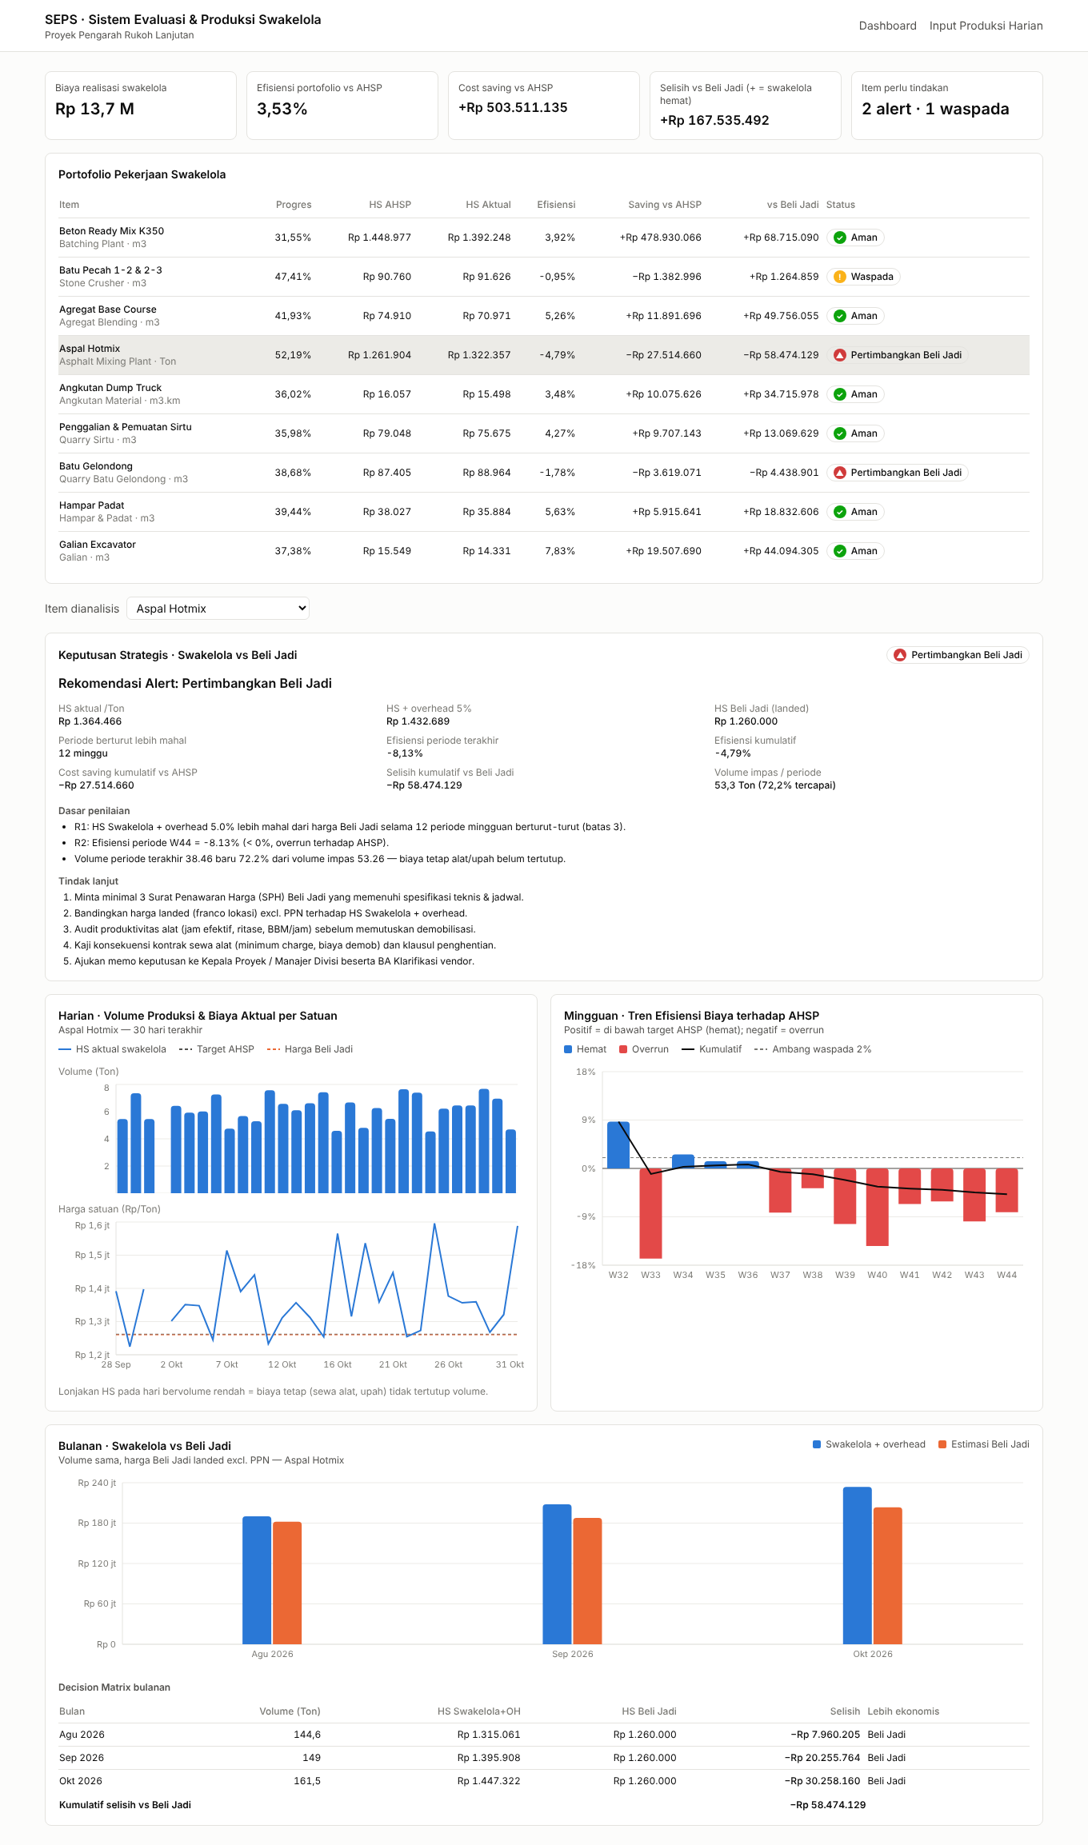
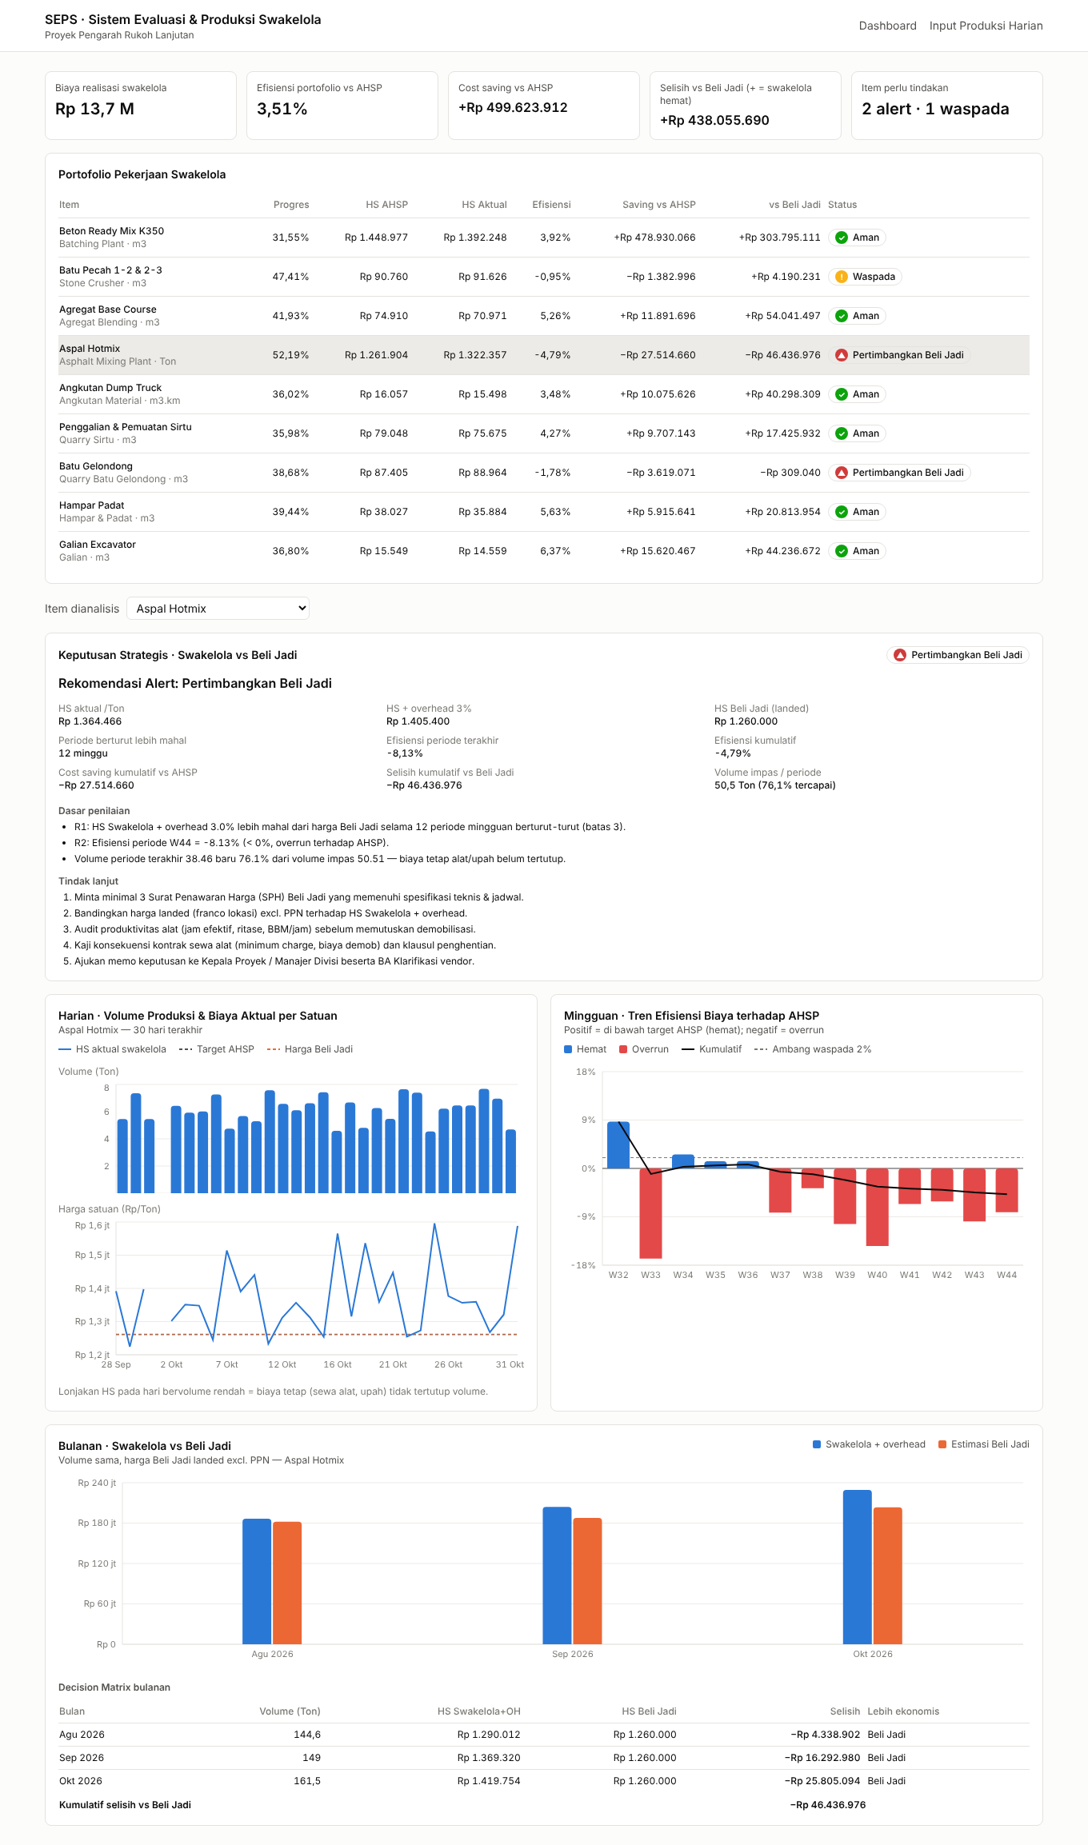
SEPS: overhead swakelola 3%, periode evaluasi mingguan Senin–Minggu
- m_item.overhead_pct 0,05 -> 0,03 (seed SQL, default kolom, master demo)
- Dokumentasikan parameter yang ditetapkan: overhead 3%, evaluasi
  mingguan Senin–Minggu, harga Beli Jadi contoh diperbarui manual nanti
- Perbarui contoh respons API & tangkapan layar dashboard

Claude-Session: https://claude.ai/code/session_0116Wk8PpniadwUNyTnyNxMi

diff --git a/seps/backend/src/data/master.js b/seps/backend/src/data/master.js
@@ -26,15 +26,15 @@ const UNIT_PRODUKSI = [
 ];
 
 const ITEMS = [
-  { id: 1, unit_id: 1, kode: 'BP-K350', nama: 'Beton Ready Mix K350', satuan: 'm3', volume_rencana: 26762, hs_ahsp: 1448977.09, overhead_pct: 0.05 },
-  { id: 2, unit_id: 2, kode: 'SC-SPLIT', nama: 'Batu Pecah 1-2 & 2-3', satuan: 'm3', volume_rencana: 3367, hs_ahsp: 90760, overhead_pct: 0.05 },
-  { id: 3, unit_id: 3, kode: 'AGR-BC', nama: 'Agregat Base Course', satuan: 'm3', volume_rencana: 7200, hs_ahsp: 74910, overhead_pct: 0.05 },
-  { id: 4, unit_id: 4, kode: 'AMP-HM', nama: 'Aspal Hotmix', satuan: 'Ton', volume_rencana: 872, hs_ahsp: 1261904, overhead_pct: 0.05 },
-  { id: 5, unit_id: 5, kode: 'ANG-DT', nama: 'Angkutan Dump Truck', satuan: 'm3.km', volume_rencana: 50000, hs_ahsp: 16057, overhead_pct: 0.05 },
-  { id: 6, unit_id: 6, kode: 'SRT-01', nama: 'Penggalian & Pemuatan Sirtu', satuan: 'm3', volume_rencana: 8000, hs_ahsp: 79048, overhead_pct: 0.05 },
-  { id: 7, unit_id: 7, kode: 'BTG-01', nama: 'Batu Gelondong', satuan: 'm3', volume_rencana: 6000, hs_ahsp: 87405, overhead_pct: 0.05 },
-  { id: 8, unit_id: 8, kode: 'HPD-01', nama: 'Hampar Padat', satuan: 'm3', volume_rencana: 7000, hs_ahsp: 38027, overhead_pct: 0.05 },
-  { id: 9, unit_id: 9, kode: 'GAL-01', nama: 'Galian Excavator', satuan: 'm3', volume_rencana: 42860, hs_ahsp: 15548.89, overhead_pct: 0.05 },
+  { id: 1, unit_id: 1, kode: 'BP-K350', nama: 'Beton Ready Mix K350', satuan: 'm3', volume_rencana: 26762, hs_ahsp: 1448977.09, overhead_pct: 0.03 },
+  { id: 2, unit_id: 2, kode: 'SC-SPLIT', nama: 'Batu Pecah 1-2 & 2-3', satuan: 'm3', volume_rencana: 3367, hs_ahsp: 90760, overhead_pct: 0.03 },
+  { id: 3, unit_id: 3, kode: 'AGR-BC', nama: 'Agregat Base Course', satuan: 'm3', volume_rencana: 7200, hs_ahsp: 74910, overhead_pct: 0.03 },
+  { id: 4, unit_id: 4, kode: 'AMP-HM', nama: 'Aspal Hotmix', satuan: 'Ton', volume_rencana: 872, hs_ahsp: 1261904, overhead_pct: 0.03 },
+  { id: 5, unit_id: 5, kode: 'ANG-DT', nama: 'Angkutan Dump Truck', satuan: 'm3.km', volume_rencana: 50000, hs_ahsp: 16057, overhead_pct: 0.03 },
+  { id: 6, unit_id: 6, kode: 'SRT-01', nama: 'Penggalian & Pemuatan Sirtu', satuan: 'm3', volume_rencana: 8000, hs_ahsp: 79048, overhead_pct: 0.03 },
+  { id: 7, unit_id: 7, kode: 'BTG-01', nama: 'Batu Gelondong', satuan: 'm3', volume_rencana: 6000, hs_ahsp: 87405, overhead_pct: 0.03 },
+  { id: 8, unit_id: 8, kode: 'HPD-01', nama: 'Hampar Padat', satuan: 'm3', volume_rencana: 7000, hs_ahsp: 38027, overhead_pct: 0.03 },
+  { id: 9, unit_id: 9, kode: 'GAL-01', nama: 'Galian Excavator', satuan: 'm3', volume_rencana: 42860, hs_ahsp: 15548.89, overhead_pct: 0.03 },
 ];
 
 /** Master sumber daya (sheet App_Architecture_Schema). Harga BBM diseragamkan di sini. */

diff --git a/seps/docs/SPESIFIKASI-TEKNIS.md b/seps/docs/SPESIFIKASI-TEKNIS.md
@@ -70,7 +70,7 @@ Di luar lingkup v0.1 (lihat §10 Roadmap): autentikasi/otorisasi, alur approval,
 
 - Semua harga **excl. PPN** (PPN masukan dapat dikreditkan → netral terhadap keputusan).
 - Harga Beli Jadi = **harga landed** = harga satuan vendor + biaya angkut ke lokasi.
-- Swakelola dibandingkan setelah ditambah **overhead** (`m_item.overhead_pct`, default 5 %): biaya pengawasan, mess, penyusutan, risiko — karena harga vendor sudah memuat overhead & laba mereka.
+- Swakelola dibandingkan setelah ditambah **overhead** (`m_item.overhead_pct`, default 3 %): biaya pengawasan, mess, penyusutan, risiko — karena harga vendor sudah memuat overhead & laba mereka.
 - Agregasi dilakukan di aplikasi (fungsi murni, teruji); view SQL `v_evaluasi_*` menghasilkan angka yang sama untuk BI/ekspor (diverifikasi: AMP W44 efisiensi −8,13 % di keduanya).
 
 ## 4. Skema database
@@ -140,6 +140,14 @@ Output selain status: alasan (kalimat siap pakai di memo), daftar tindak lanjut,
 **Catatan pengambilan keputusan.** Alert adalah *pemicu kajian*, bukan keputusan final. Sebelum beralih ke Beli Jadi, pertimbangkan: (a) biaya demobilisasi & minimum charge kontrak sewa alat, (b) kepastian pasokan & kapasitas vendor terhadap jadwal kritis, (c) mutu (uji slump/kuat tekan, gradasi, kepadatan) dan tanggung jawab bila reject, (d) opsi hybrid — sebagian volume dibeli jadi untuk menaikkan utilisasi alat sendiri ke atas volume impas.
 
 **Parameter yang bisa diatur** (`m_parameter_evaluasi`, tanpa deploy ulang): `periode_berturut`, `ambang_waspada_pct`, `granularitas` (harian terlalu sensitif terhadap hujan; mingguan direkomendasikan), `metode_benchmark` (`TERENDAH` / `RATA_RATA`).
+
+**Parameter yang ditetapkan untuk proyek ini (3 Nov 2026):**
+
+| Parameter | Nilai | Keterangan |
+|---|---|---|
+| Overhead swakelola | **3 %** untuk semua item | `m_item.overhead_pct = 0.03` (default kolom juga 0,03) |
+| Periode evaluasi | **Mingguan, Senin–Minggu** (minggu ISO) | `granularitas = mingguan`; R1 = 3 minggu berturut-turut |
+| Harga Beli Jadi | Pakai harga **contoh** dulu | Diperbarui manual nanti melalui `POST /api/v1/benchmark` atau `INSERT` ke `t_benchmark_beli_jadi` (isi `berlaku_sampai` pada harga contoh lama agar tidak ikut terpilih) |
 
 ## 7. Dashboard & UI/UX
 
@@ -215,12 +223,12 @@ Validasi gagal → `422` dengan `galat: [{ "field": "tanggal", "pesan": "format 
   "periode": "2026-W44", "label": "W44", "mulai": "2026-10-26", "selesai": "2026-11-01",
   "volume": 38.46, "jam_kerja": 46.9, "hari_kerja": 6,
   "biaya": { "material": 25259048, "alat": 15932583, "upah": 3414126, "bbm": 4457479, "overhead_lain": 3414126 },
-  "biaya_total": 52477362, "biaya_total_dengan_overhead": 55101230,
-  "hs_ahsp": 1261904, "hs_aktual": 1364465.99, "hs_efektif": 1432689.29, "hs_beli_jadi": 1260000,
+  "biaya_total": 52477362, "biaya_total_dengan_overhead": 54051683,
+  "hs_ahsp": 1261904, "hs_aktual": 1364465.99, "hs_efektif": 1405399.97, "hs_beli_jadi": 1260000,
   "efisiensi_pct": -8.13, "cost_saving_vs_ahsp": -3944534,
-  "biaya_jika_beli_jadi": 48459600, "selisih_vs_beli_jadi": -6641630, "swakelola_lebih_mahal": true,
+  "biaya_jika_beli_jadi": 48459600, "selisih_vs_beli_jadi": -5592083, "swakelola_lebih_mahal": true,
   "kumulatif": { "volume": 455.14, "biaya_swakelola": 601857647, "efisiensi_pct": -4.79,
-                 "cost_saving_vs_ahsp": -27514660, "selisih_vs_beli_jadi": -58474129, "...": "..." }
+                 "cost_saving_vs_ahsp": -27514660, "selisih_vs_beli_jadi": -46436976, "...": "..." }
 }
 ```
 
@@ -231,17 +239,17 @@ Validasi gagal → `422` dengan `galat: [{ "field": "tanggal", "pesan": "format 
   "status": "ALERT_BELI_JADI",
   "rekomendasi": "Rekomendasi Alert: Pertimbangkan Beli Jadi",
   "alasan": [
-    "R1: HS Swakelola + overhead 5.0% lebih mahal dari harga Beli Jadi selama 12 periode mingguan berturut-turut (batas 3).",
+    "R1: HS Swakelola + overhead 3.0% lebih mahal dari harga Beli Jadi selama 12 periode mingguan berturut-turut (batas 3).",
     "R2: Efisiensi periode W44 = -8.13% (< 0%, overrun terhadap AHSP).",
-    "Volume periode terakhir 38.46 baru 72.2% dari volume impas 53.26 — biaya tetap alat/upah belum tertutup."
+    "Volume periode terakhir 38.46 baru 76.1% dari volume impas 50.51 — biaya tetap alat/upah belum tertutup."
   ],
   "aturan": { "r1_beli_jadi_lebih_murah_berturut": true, "r2_efisiensi_negatif": true },
   "metrik": {
-    "streak_lebih_mahal": 12, "hs_aktual": 1364465.99, "hs_efektif": 1432689.29, "hs_beli_jadi": 1260000,
+    "streak_lebih_mahal": 12, "hs_aktual": 1364465.99, "hs_efektif": 1405399.97, "hs_beli_jadi": 1260000,
     "efisiensi_periode_terakhir_pct": -8.13, "efisiensi_kumulatif_pct": -4.79,
-    "cost_saving_kumulatif_vs_ahsp": -27514660, "selisih_kumulatif_vs_beli_jadi": -58474129,
-    "potensi_hemat_beli_jadi_periode_terakhir": 6641630,
-    "volume_impas": { "volume": 53.26, "volume_aktual": 38.46, "rasio_utilisasi_pct": 72.2 }
+    "cost_saving_kumulatif_vs_ahsp": -27514660, "selisih_kumulatif_vs_beli_jadi": -46436976,
+    "potensi_hemat_beli_jadi_periode_terakhir": 5592083,
+    "volume_impas": { "volume": 50.51, "volume_aktual": 38.46, "rasio_utilisasi_pct": 76.1 }
   }
 }
 ```
